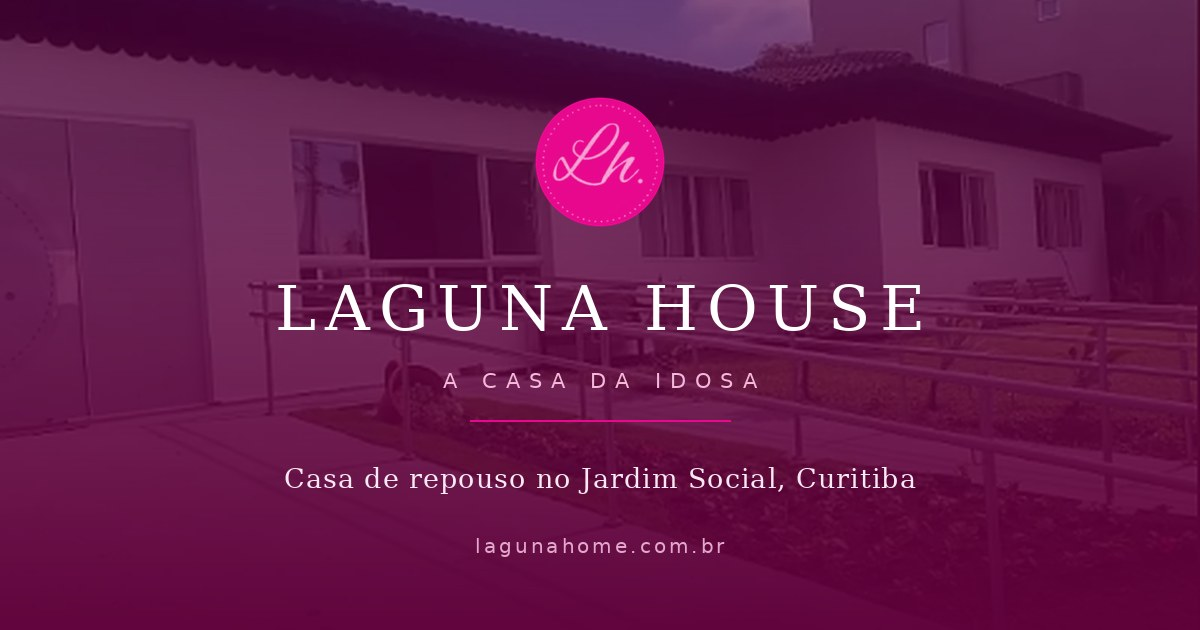
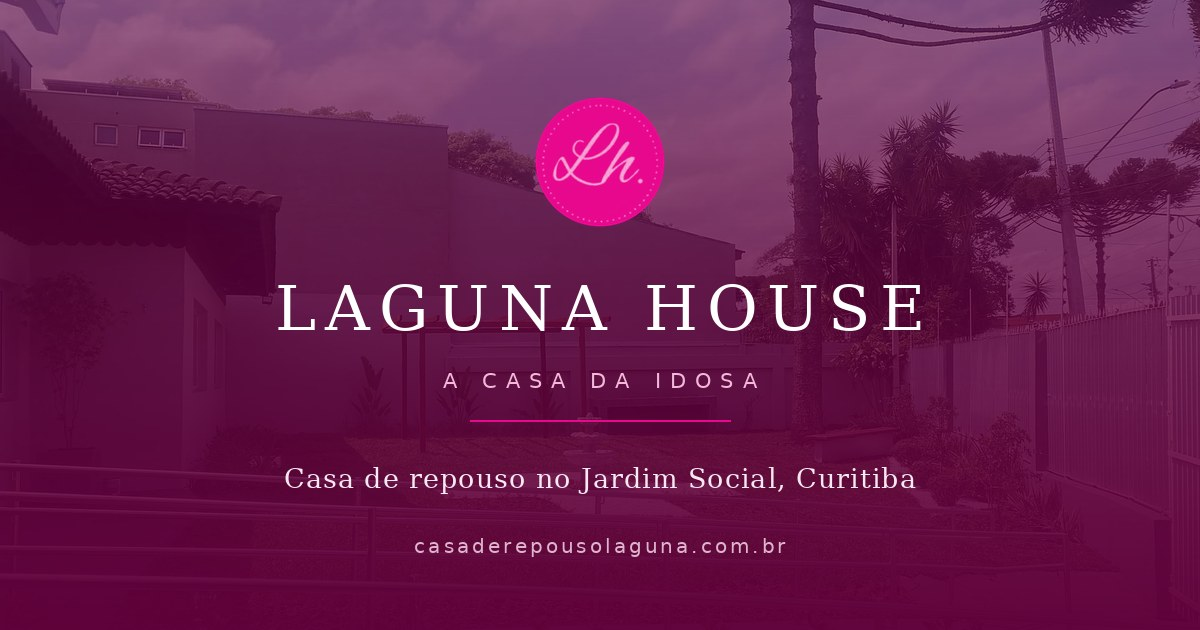
foto nova da area externa na capa, no jardim e na previa de link

diff --git a/estrutura.html b/estrutura.html
@@ -118,7 +118,7 @@
         <span class="etiqueta">Área externa</span>
         <div class="fio"></div>
         <h2>O jardim é parte do cuidado</h2>
-        <p>A área verde tem chafariz, pergolado de madeira, canteiros floridos e árvores altas, com caminho firme para quem anda com apoio ou usa cadeira de rodas.</p>
+        <p>A área verde tem chafariz, pergolado de madeira, canteiros floridos e uma araucária, com caminho firme para quem anda com apoio ou usa cadeira de rodas.</p>
         <p>Tomar sol pela manhã ajuda a regular o sono, faz o corpo produzir vitamina D e melhora o humor. Por isso o jardim não é um enfeite da fachada: ele é usado todos os dias.</p>
         <ul class="lista">
           <li>Piso plano e firme, com acesso para cadeira de rodas</li>
@@ -128,7 +128,7 @@
         </ul>
       </div>
       <div class="moldura">
-        <img src="img/jardim.webp" alt="Jardim com chafariz, pergolado de madeira e gramado" loading="lazy" width="1200" height="900">
+        <img src="img/jardim.webp" alt="Jardim com araucária, chafariz e pergolado de madeira" loading="lazy" width="1400" height="852">
       </div>
     </div>
   </div>
@@ -143,7 +143,7 @@
       <p class="chamada">Toque ou clique em qualquer foto para ampliar.</p>
     </div>
     <div class="galeria">
-      <figure class="g-destaque"><img src="img/fachada.webp" alt="Fachada da casa com rampa de acesso e canteiro florido" loading="lazy"><figcaption>Entrada acessível, sem degraus</figcaption></figure>
+      <figure class="g-destaque"><img src="img/fachada.webp" alt="Jardim visto da rampa de acesso, com araucária, pergolado e chafariz" loading="lazy"><figcaption>O jardim, visto da rampa de acesso</figcaption></figure>
       <figure><img src="img/refeitorio-card.webp" alt="Refeitório com mesas amplas e cadeiras coloridas" loading="lazy"><figcaption>Refeitório</figcaption></figure>
       <figure><img src="img/convivencia-card.webp" alt="Sala de convivência com poltronas reclináveis" loading="lazy"><figcaption>Sala de convivência</figcaption></figure>
       <figure><img src="img/quarto-duplo-card.webp" alt="Suíte com duas camas e janela para a área verde" loading="lazy"><figcaption>Suíte com vista para o jardim</figcaption></figure>
@@ -151,12 +151,12 @@
       <figure><img src="img/banheiro-card.webp" alt="Banheiro adaptado com barras de apoio" loading="lazy"><figcaption>Banheiro adaptado</figcaption></figure>
       <figure><img src="img/banheiro-cadeira.webp" alt="Banheiro com cadeira de banho e piso antiderrapante" loading="lazy"><figcaption>Espaço para cadeira de banho</figcaption></figure>
       <figure><img src="img/convivencia2.webp" alt="Sala de convivência vista a partir da entrada" loading="lazy"><figcaption>Ambientes integrados</figcaption></figure>
-      <figure><img src="img/jardim.webp" alt="Jardim com chafariz e pergolado" loading="lazy"><figcaption>Chafariz e pergolado</figcaption></figure>
+      <figure><img src="img/jardim-card.webp" alt="Chafariz e pergolado no gramado" loading="lazy"><figcaption>Chafariz e pergolado</figcaption></figure>
       <figure><img src="img/convivio-jardim.webp" alt="Moradoras no jardim, sentadas em banco ao lado do chafariz" loading="lazy"><figcaption>Convívio no jardim</figcaption></figure>
       <figure><img src="img/festa-junina.webp" alt="Festa junina na sala de convivência, com bandeirinhas" loading="lazy"><figcaption>Festa junina na casa</figcaption></figure>
       <figure><img src="img/missa.webp" alt="Missa celebrada na sala de convivência da casa" loading="lazy"><figcaption>Missa celebrada na casa</figcaption></figure>
     </div>
-    <div class="rev"><strong>Pendente da visita:</strong> faltam as fotos da área externa, da fachada e do jardim em dia de sol. As fotos do jardim e das moradoras que estão aqui ainda são prints de vídeo do Instagram, com resolução baixa. Trocar depois da sessão.</div>
+    <div class="rev"><strong>Pendente da visita:</strong> as fotos das moradoras e das celebrações ainda são prints de vídeo do Instagram, com resolução baixa. Trocar depois da sessão de fotos. Falta também a fachada da casa vista da rua.</div>
   </div>
 </section>
 

diff --git a/index.html b/index.html
@@ -56,7 +56,7 @@
     </nav>
   </div>
 </header><main id="conteudo"><section class="hero">
-  <img class="fundo" src="img/fachada.webp" alt="Fachada da Laguna House, casa térrea branca com rampa de acesso e jardim" fetchpriority="high" width="1600" height="898">
+  <img class="fundo" src="img/fachada.webp" alt="Jardim da Laguna House, com araucária, pergolado de madeira e chafariz, visto da rampa de acesso" fetchpriority="high" width="1800" height="1012">
   <div class="wrap">
     <div class="hero-in">
       <span class="etiqueta">Casa de repouso no Jardim Social, Curitiba</span>
@@ -94,7 +94,7 @@
         <div class="btns"><a class="btn btn-secundario" href="sobre.html">Nossa história</a></div>
       </div>
       <div class="moldura">
-        <img src="img/jardim.webp" alt="Jardim da Laguna House com chafariz, pergolado de madeira e gramado" loading="lazy" width="1200" height="900">
+        <img src="img/jardim.webp" alt="Jardim da Laguna House com araucária, pergolado de madeira e chafariz" loading="lazy" width="1400" height="852">
       </div>
     </div>
   </div>
@@ -143,7 +143,7 @@
       <p class="chamada">Quartos claros, áreas comuns para as refeições e as celebrações, e um jardim que é o coração da casa.</p>
     </div>
     <div class="galeria">
-      <figure class="g-destaque"><img src="img/fachada.webp" alt="Fachada da casa com rampa de acesso" loading="lazy"><figcaption>Fachada acessível, sem degraus na entrada</figcaption></figure>
+      <figure class="g-destaque"><img src="img/fachada.webp" alt="Jardim visto da rampa de acesso, com araucária e chafariz" loading="lazy"><figcaption>O jardim, visto da rampa de acesso</figcaption></figure>
       <figure><img src="img/quarto-duplo-card.webp" alt="Suíte com duas camas e janela para a área verde" loading="lazy"><figcaption>Suíte com vista para o jardim</figcaption></figure>
       <figure><img src="img/refeitorio-card.webp" alt="Refeitório com mesas amplas e cadeiras coloridas" loading="lazy"><figcaption>Refeitório</figcaption></figure>
       <figure><img src="img/convivencia-card.webp" alt="Sala de convivência com poltronas reclináveis" loading="lazy"><figcaption>Sala de convivência</figcaption></figure>

diff --git a/modalidades.html b/modalidades.html
@@ -108,7 +108,7 @@
       </article>
 
       <article class="cartao-foto">
-        <img src="img/fachada-card.webp" alt="Fachada acessível da casa" loading="lazy">
+        <img src="img/fachada-card.webp" alt="Área externa da casa, com jardim e pergolado" loading="lazy">
         <div class="corpo">
           <h3>Pós-operatório</h3>
           <p>Recuperação depois de uma cirurgia ou de uma internação, no intervalo em que a idosa ainda não tem condições de ficar sozinha em casa, mas já recebeu alta hospitalar.</p>
